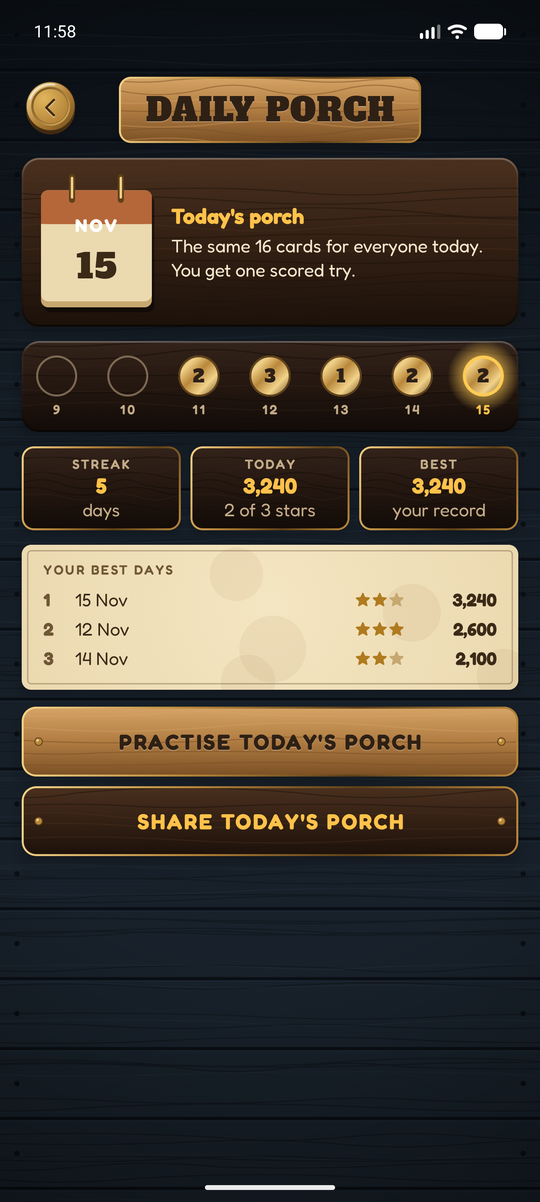
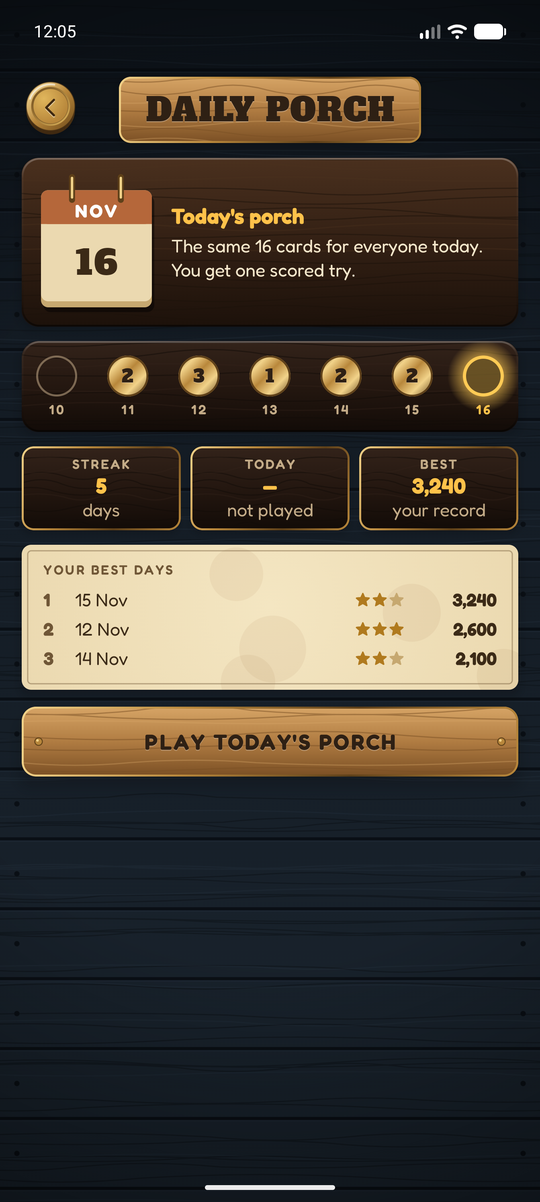
Play button says PLAY; calendar month centred in its band
- The big sign on the porch, the night map and a new night's intro now
  reads PLAY, in wide-tracked wood type, without the bulb icon.
- The calendar leaf lays the month out centred in the copper band
  under the binder rings, and the day centred on the paper below,
  instead of centring both together (which left the month on the
  band's edge).

diff --git a/app/src/main/java/app/porchlight/game/Menus.kt b/app/src/main/java/app/porchlight/game/Menus.kt
@@ -274,7 +274,7 @@ internal fun NightsScreen(session: Session) {
             }
         }
         Spacer(Modifier.height(10.dp))
-        PlayButton("Light the porch", session.calm, Modifier.fillMaxWidth()) { session.start(daily = false) }
+        PlayButton("Play", session.calm, Modifier.fillMaxWidth()) { session.start(daily = false) }
     }
 }
 
@@ -438,18 +438,36 @@ private fun CalendarLeaf(seed: Long, modifier: Modifier) {
                 drawLine(Craft.brassLight, Offset(size.width * x, 2f), Offset(size.width * x, top + 6.dp.toPx()), 2.dp.toPx(), StrokeCap.Round)
             }
         }
-        Column(horizontalAlignment = Alignment.CenterHorizontally) {
-            // The month, printed bold in the copper band, clear of the binder rings.
-            Spacer(Modifier.height(16.dp))
-            Text(
-                MONTHS[((seed / 100 % 100).toInt() - 1).coerceIn(0, 11)].uppercase(),
-                style = BodyText,
-                fontWeight = FontWeight.Bold,
-                letterSpacing = 2.sp,
-                color = Color.White,
-            )
-            Spacer(Modifier.height(6.dp))
-            Text("${seed % 100}", style = Display, fontSize = TypeScale.Title, color = Craft.parchmentInk)
+        // Each line sits in its own part of the leaf, measured from the drawing: the month centred
+        // in the copper band below the binder rings, the day centred on the paper beneath.
+        BoxWithConstraints(Modifier.fillMaxSize()) {
+            val top = maxHeight * 0.1f
+            val band = maxHeight * 0.26f
+            Box(
+                Modifier
+                    .fillMaxWidth()
+                    .offset(y = top + 6.dp)
+                    .height(band - 6.dp),
+                contentAlignment = Alignment.Center,
+            ) {
+                Text(
+                    MONTHS[((seed / 100 % 100).toInt() - 1).coerceIn(0, 11)].uppercase(),
+                    style = BodyText.copy(lineHeight = TypeScale.Body),
+                    fontWeight = FontWeight.Bold,
+                    letterSpacing = 2.sp,
+                    color = Color.White,
+                    maxLines = 1,
+                )
+            }
+            Box(
+                Modifier
+                    .fillMaxWidth()
+                    .offset(y = top + band)
+                    .height(maxHeight - top - band - 5.dp),
+                contentAlignment = Alignment.Center,
+            ) {
+                Text("${seed % 100}", style = Display, fontSize = TypeScale.Title, color = Craft.parchmentInk, maxLines = 1)
+            }
         }
     }
 }

diff --git a/app/src/main/java/app/porchlight/game/Hud.kt b/app/src/main/java/app/porchlight/game/Hud.kt
@@ -367,8 +367,7 @@ private val signOnOak = BodyText.copy(fontWeight = FontWeight.Bold, letterSpacin
 private val signOnWalnut = BodyText.copy(fontWeight = FontWeight.Bold, letterSpacing = 1.5.sp, shadow = Shadow(Color.Black.copy(alpha = 0.6f), Offset(0f, -1.5f), 0f))
 
 /**
- * The play button: the porch's one big action. A taller oak sign with the bulb burned into it and
- * the words in wood type, a warm glow breathing behind it, and a band of light sliding across every
+ * The play button: the porch's one big action. A taller oak sign with one word in wood type, a warm glow breathing behind it, and a band of light sliding across every
  * few seconds. It sinks under the finger like the other signs. [calm] keeps it still.
  */
 @Composable
@@ -424,13 +423,6 @@ internal fun PlayButton(text: String, calm: Boolean, modifier: Modifier = Modifi
             .padding(horizontal = 34.dp),
         contentAlignment = Alignment.Center,
     ) {
-        Row(verticalAlignment = Alignment.CenterVertically, horizontalArrangement = Arrangement.spacedBy(10.dp)) {
-            // The bulb, burned into the wood: dark with a light edge below.
-            Box {
-                GlyphArt(Glyph.Bulb, Color.White.copy(alpha = 0.35f), Modifier.size(28.dp).offset(y = 1.dp))
-                GlyphArt(Glyph.Bulb, Dusk.paperInk, Modifier.size(28.dp))
-            }
-            FitText(text.uppercase(), TextCarved, TypeScale.Title, Dusk.paperInk)
-        }
+        FitText(text.uppercase(), TextCarved.copy(letterSpacing = 4.sp), TypeScale.Title, Dusk.paperInk)
     }
 }

diff --git a/app/src/main/java/app/porchlight/game/Porch.kt b/app/src/main/java/app/porchlight/game/Porch.kt
@@ -178,7 +178,7 @@ private fun Controls(session: Session) {
             )
         }
         Spacer(Modifier.height(4.dp))
-        PlayButton("Light the porch", session.calm, Modifier.fillMaxWidth()) { session.start(daily = false) }
+        PlayButton("Play", session.calm, Modifier.fillMaxWidth()) { session.start(daily = false) }
         Spacer(Modifier.height(8.dp))
         Text(
             "NIGHT ${night.number} · ${nightLine(night).uppercase()}" + if (progress.best > 0) "   BEST ${progress.best.grouped()}" else "",

diff --git a/app/src/main/java/app/porchlight/game/Onboarding.kt b/app/src/main/java/app/porchlight/game/Onboarding.kt
@@ -204,7 +204,7 @@ internal fun NightIntro(night: Night, session: Session) {
                 textAlign = TextAlign.Center,
             )
             Spacer(Modifier.height(18.dp))
-            PlayButton("Light the porch", session.calm, Modifier.fillMaxWidth()) { session.beginAfterIntro() }
+            PlayButton("Play", session.calm, Modifier.fillMaxWidth()) { session.beginAfterIntro() }
         }
     }
 }

diff --git a/README.md b/README.md
@@ -39,7 +39,7 @@ Pick a lead moth before each round. Each one bends the rules its own way.
 
 <table>
   <tr>
-    <td align="center" width="20%"><img src="docs/screens/1-home.png" alt="The lobby: the level emblem with its XP ring, a lit mason jar with moths resting around it, an oak sign reading Light the porch, and four menu tiles" width="100%"></td>
+    <td align="center" width="20%"><img src="docs/screens/1-home.png" alt="The lobby: the level emblem with its XP ring, a lit mason jar with moths resting around it, a big oak sign reading Play, and four menu tiles" width="100%"></td>
     <td align="center" width="20%"><img src="docs/screens/2-peek.png" alt="The opening peek: every card face up with a warm rim, REMEMBER and a big 2 under the bulb" width="100%"></td>
     <td align="center" width="20%"><img src="docs/screens/3-streak.png" alt="Overdrive: the bulb glows gold in its brass works, found moths circle it, and MATCH pops rise off the pairs" width="100%"></td>
     <td align="center" width="20%"><img src="docs/screens/5-low.png" alt="The last seconds: the bulb is red and smoking, the time band around it nearly empty, and the remaining cards are washed red" width="100%"></td>
